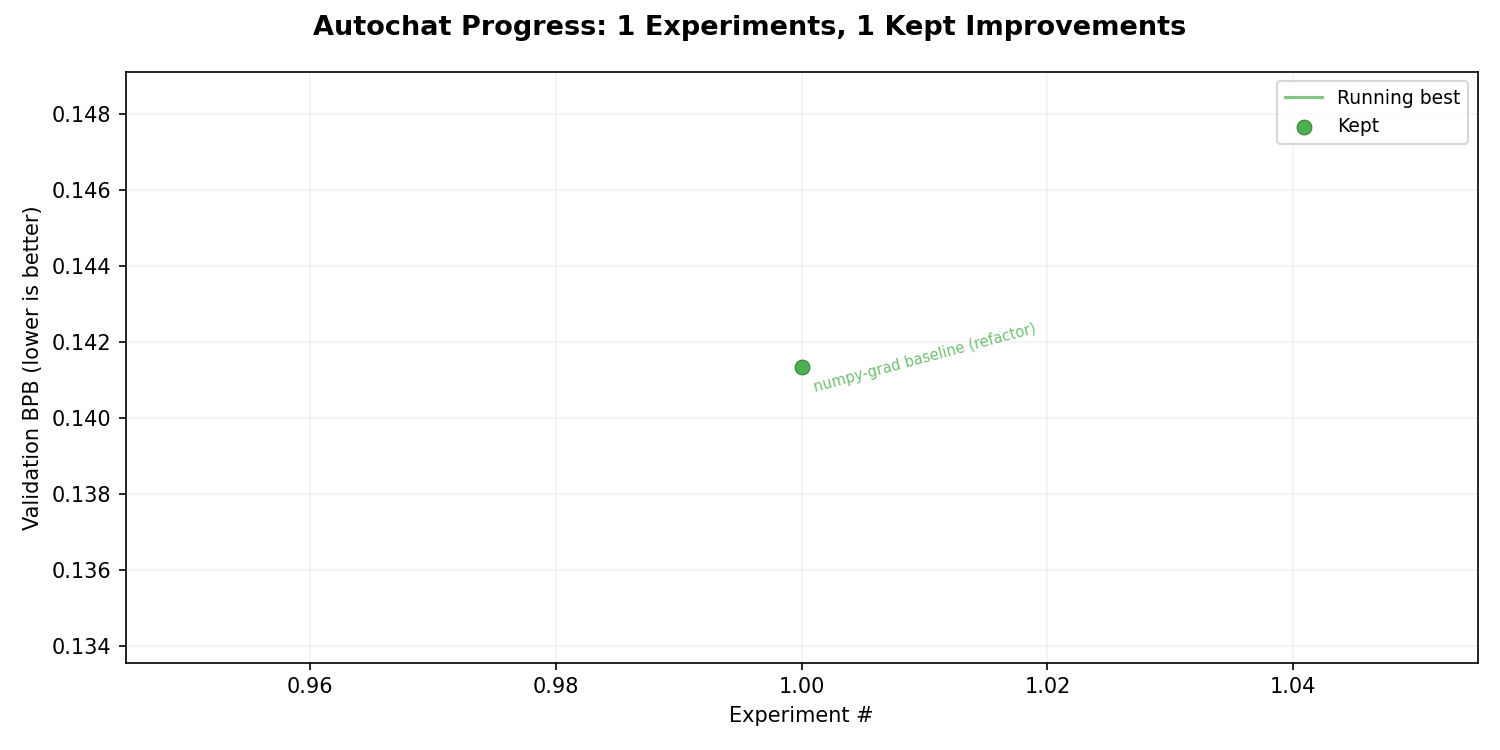
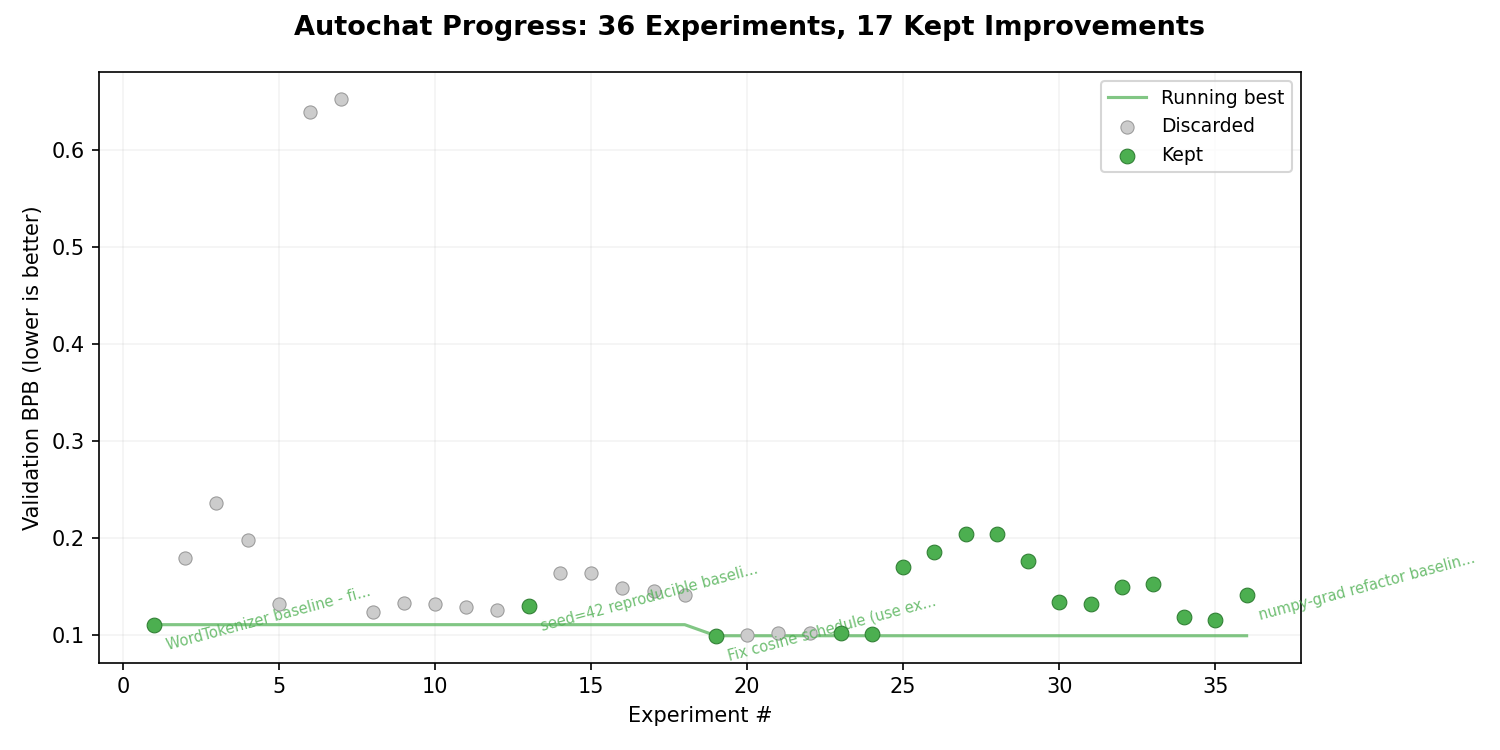
program.md: numpy-grad now part of the framework, 20-min budget
Reflects the post-refactor world. Two changes:

- The framework table now lists numpy-grad/numpy_grad/* as a "fair game"
  layer. Most useful when a real bpb win needs a framework move
  (dtype, fused op, init scheme) that train.py alone cannot reach.
  Constraint: pytest must stay green if numpy-grad is touched.

- Time budget: 10 min → 20 min. Each numpy-grad epoch is slower than the
  hand-rolled Op classes (float64 vs float32, expression-graph allocations),
  and the previous Op-classes best (bpb 0.0991) needed ~20 min of training
  anyway. 10-min budget gives ~30 epochs which is below convergence.

Also regenerates progress.png with the full 36-experiment history (35 prior
+ numpy-grad refactor baseline). progress.png is committed; experiments.jsonl
remains gitignored (runtime log).

diff --git a/program.md b/program.md
@@ -1,7 +1,9 @@
 # autochat — Autonomous Research Program
 
-You are an AI research agent optimizing a small GPT language model (`train.py`).
-The model is a char-level Transformer trained on Chinese QA pairs, built with pure NumPy (no PyTorch).
+You are an AI research agent optimizing a small GPT language model.
+The model is a word-level Transformer trained on Chinese QA pairs, built on
+top of [`numpy-grad`](https://github.com/ryansoq/numpy-grad) — our own
+array-level autograd engine in pure NumPy.
 
 ## Your Goal
 
@@ -9,41 +11,46 @@ Lower **val_bpb** (validation bits per byte). Lower is better.
 
 ## Rules
 
-1. **Only modify `train.py`.** Do not touch `program.md` or any other files.
-2. **Run training** with `python3 train.py --auto` (10-minute time budget).
+1. **Modify `train.py`** for model/training changes. The autograd framework
+   (`numpy-grad`) is also fair game if a change there unlocks a real bpb win
+   (e.g. dtype, fused op, init scheme); keep its tests passing if you do.
+2. **Run training** with `python3 train.py --auto` (20-minute time budget).
 3. **Check the result**: look at the final `bpb=` value printed at the end.
 4. **Compare** with the previous best bpb in `experiments.jsonl`.
    - If bpb improved → **KEEP** the change, commit with a descriptive message.
-   - If bpb got worse → **REVERT** (`git checkout train.py`), log why it failed.
-5. **Repeat** with a new hypothesis.
+   - If bpb got worse → **REVERT** (`git checkout train.py` and any
+     numpy-grad changes), log why it failed.
+5. **Repeat** with a new hypothesis. **One change per experiment** so you
+   know what moved the needle.
 
 ## What You Can Change
 
-Everything in `train.py` is fair game:
-
-| Category | Examples |
-|----------|----------|
-| Architecture | num_layers, d_model, d_ff, num_heads |
-| Activation | GELU → Swish, ReLU, SiLU |
-| Normalization | LayerNorm position (pre vs post), RMSNorm |
-| Optimizer | Adam params (β1, β2, ε), learning rate schedule |
-| Training | batch ordering, sequence length, warmup strategy |
-| Attention | window patterns, causal mask variants |
-| Regularization | dropout, weight decay |
-| Initialization | Xavier, Kaiming, scaled init |
+| Layer | Where | Examples |
+|-------|-------|----------|
+| Architecture | `train.py` GPTMini | num_layers, d_model, d_ff, num_heads |
+| Activation | `train.py` block | GELU → SiLU/Swish; SwiGLU vs GELU FFN |
+| Normalization | `train.py` block | LN pre vs post; RMSNorm |
+| Optimizer | `train.py` train() | Adam (β1, β2, ε); lr schedule shape |
+| Training loop | `train.py` train() | warmup, cosine vs step LR, grad-clip threshold |
+| Attention | `train.py` MultiHeadAttention (or numpy-grad) | window patterns, sparse attention |
+| Regularization | `train.py` | dropout, weight decay, label smoothing |
+| Init | `train.py` `__init__` (or numpy-grad Linear) | He/Xavier scale, embedding init std |
+| Framework | `numpy-grad/numpy_grad/` | dtype (float32 vs float64), fused ops, grad accum |
 
 ## Strategy
 
-- **Start with high-impact changes** (architecture, optimizer) before fine-tuning.
+- **Start with high-impact changes** (architecture, optimizer, dtype) before fine-tuning.
 - **One change at a time** so you know what worked.
 - **Log your reasoning** in commit messages.
 - **Don't over-fit** — we care about generalization (val_bpb), not just training loss.
+- **If a numpy-grad change is on the table**, run `pytest tests/` first; if any
+  test breaks, fix it before kicking off training.
 
 ## Constraints
 
 - Pure NumPy only (no PyTorch, no JAX, no external ML libraries).
 - Must run on CPU (no GPU).
-- Time budget: 10 minutes per experiment.
+- Time budget: 20 minutes per experiment.
 - The `TRAINING_DATA` list is fixed — don't modify it.
 - Keep the `compute_bpb()` function and `experiments.jsonl` logging intact.
 
